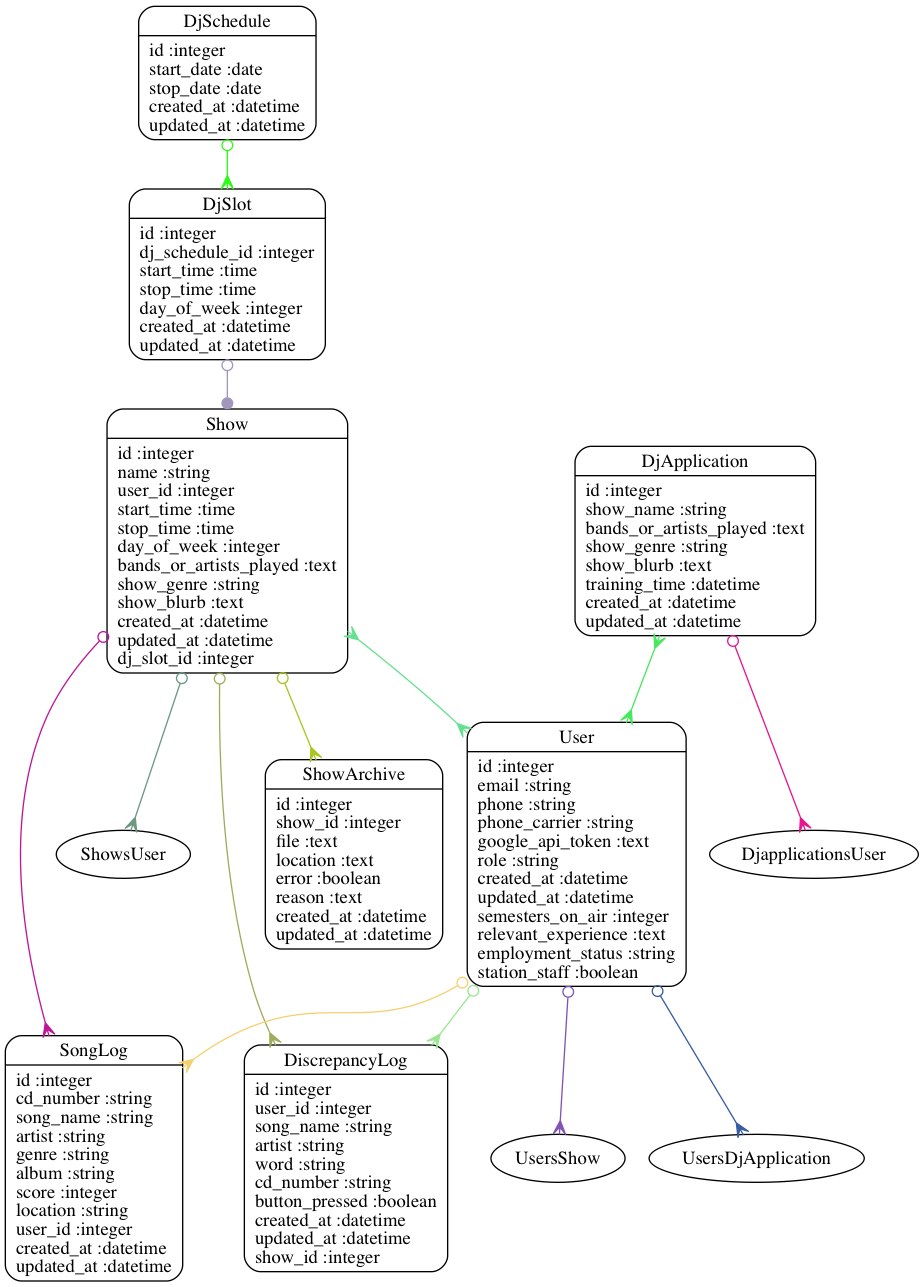
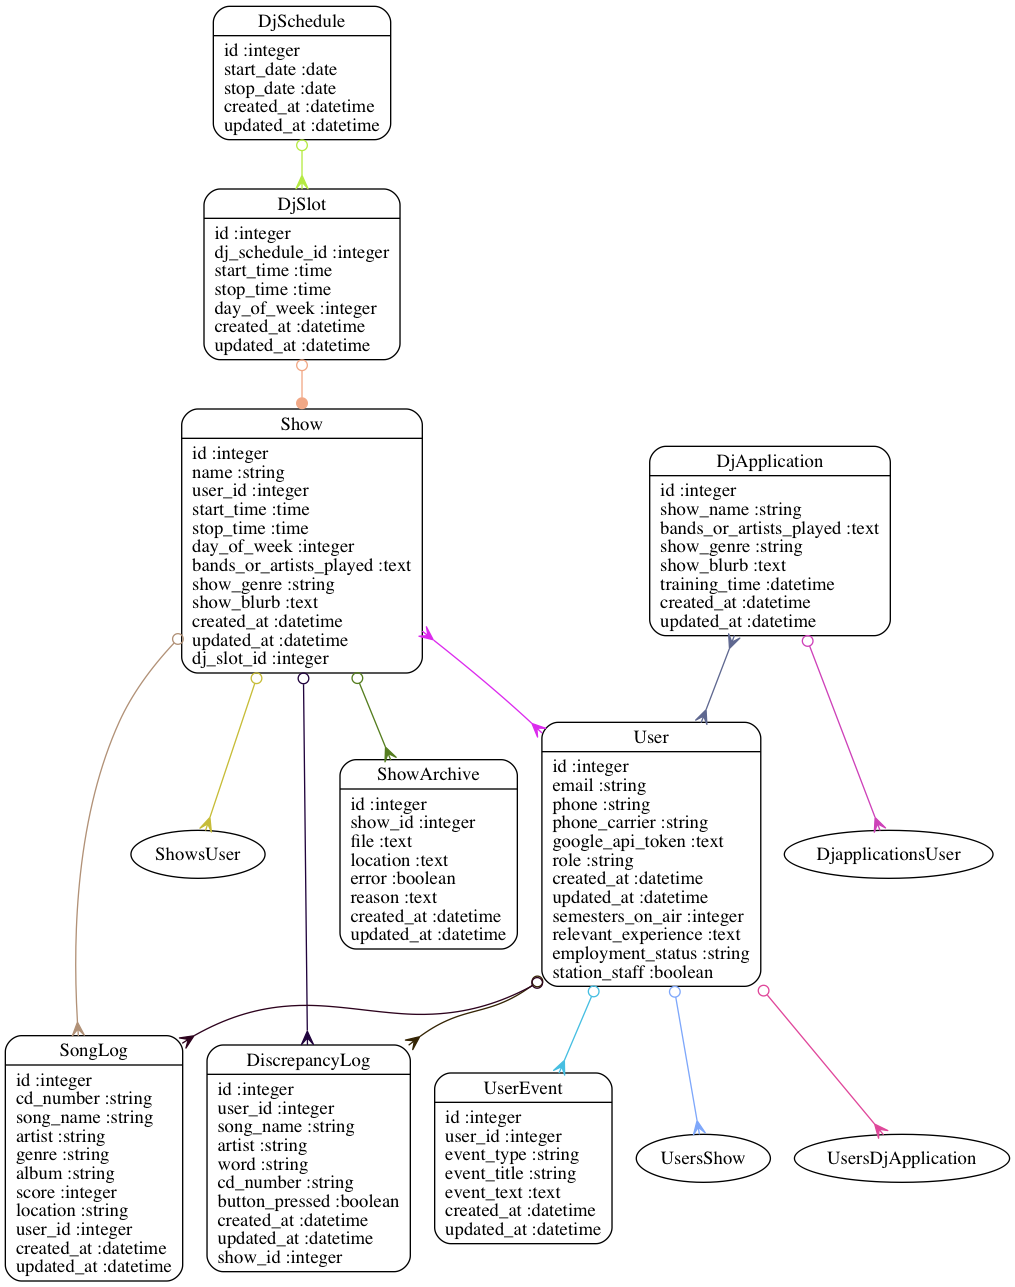
Added user event for subs and no shows

diff --git a/db/schema.rb b/db/schema.rb
@@ -11,7 +11,7 @@
 #
 # It's strongly recommended that you check this file into your version control system.
 
-ActiveRecord::Schema.define(version: 20140713020420) do
+ActiveRecord::Schema.define(version: 20140713023441) do
 
   create_table "discrepancy_logs", force: true do |t|
     t.integer  "user_id"
@@ -109,6 +109,17 @@ ActiveRecord::Schema.define(version: 20140713020420) do
   end
 
   add_index "song_logs", ["user_id"], name: "index_song_logs_on_user_id"
+
+  create_table "user_events", force: true do |t|
+    t.integer  "user_id"
+    t.string   "event_type"
+    t.string   "event_title"
+    t.text     "event_text"
+    t.datetime "created_at"
+    t.datetime "updated_at"
+  end
+
+  add_index "user_events", ["user_id"], name: "index_user_events_on_user_id"
 
   create_table "users", force: true do |t|
     t.string   "email"

diff --git a/db/migrate/20140713023441_create_user_events.rb b/db/migrate/20140713023441_create_user_events.rb
@@ -1,0 +1,12 @@
+class CreateUserEvents < ActiveRecord::Migration
+  def change
+    create_table :user_events do |t|
+      t.references :user, index: true
+      t.string :event_type
+      t.string :event_title
+      t.text :event_text
+
+      t.timestamps
+    end
+  end
+end

diff --git a/app/models/user.rb b/app/models/user.rb
@@ -8,6 +8,7 @@ class User < ActiveRecord::Base
 
   has_many :song_logs
   has_many :discrepancy_logs
+  has_many :user_events
   has_and_belongs_to_many :shows
   has_and_belongs_to_many :dj_applications
 end

diff --git a/test/models/user_event_test.rb b/test/models/user_event_test.rb
@@ -1,0 +1,7 @@
+require 'test_helper'
+
+class UserEventTest < ActiveSupport::TestCase
+  # test "the truth" do
+  #   assert true
+  # end
+end

diff --git a/app/models/user_event.rb b/app/models/user_event.rb
@@ -1,0 +1,3 @@
+class UserEvent < ActiveRecord::Base
+  belongs_to :user
+end
